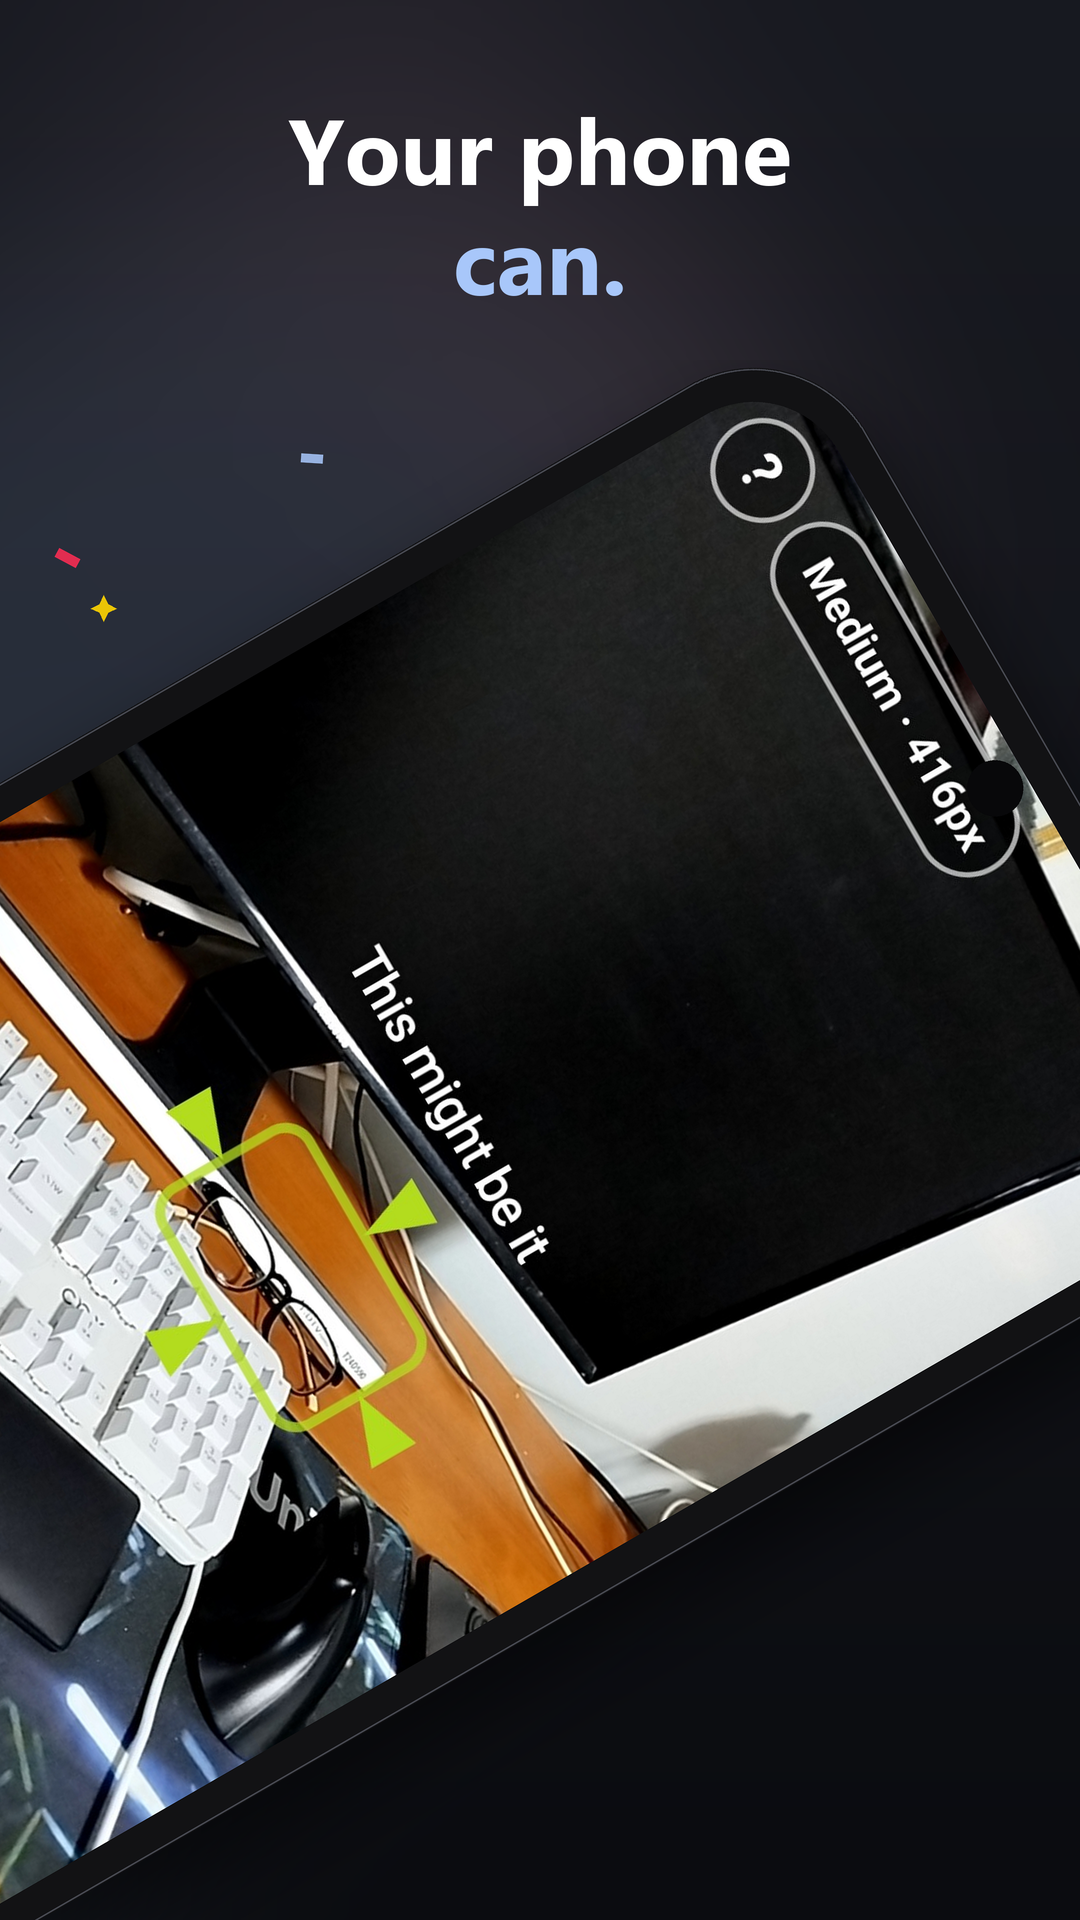
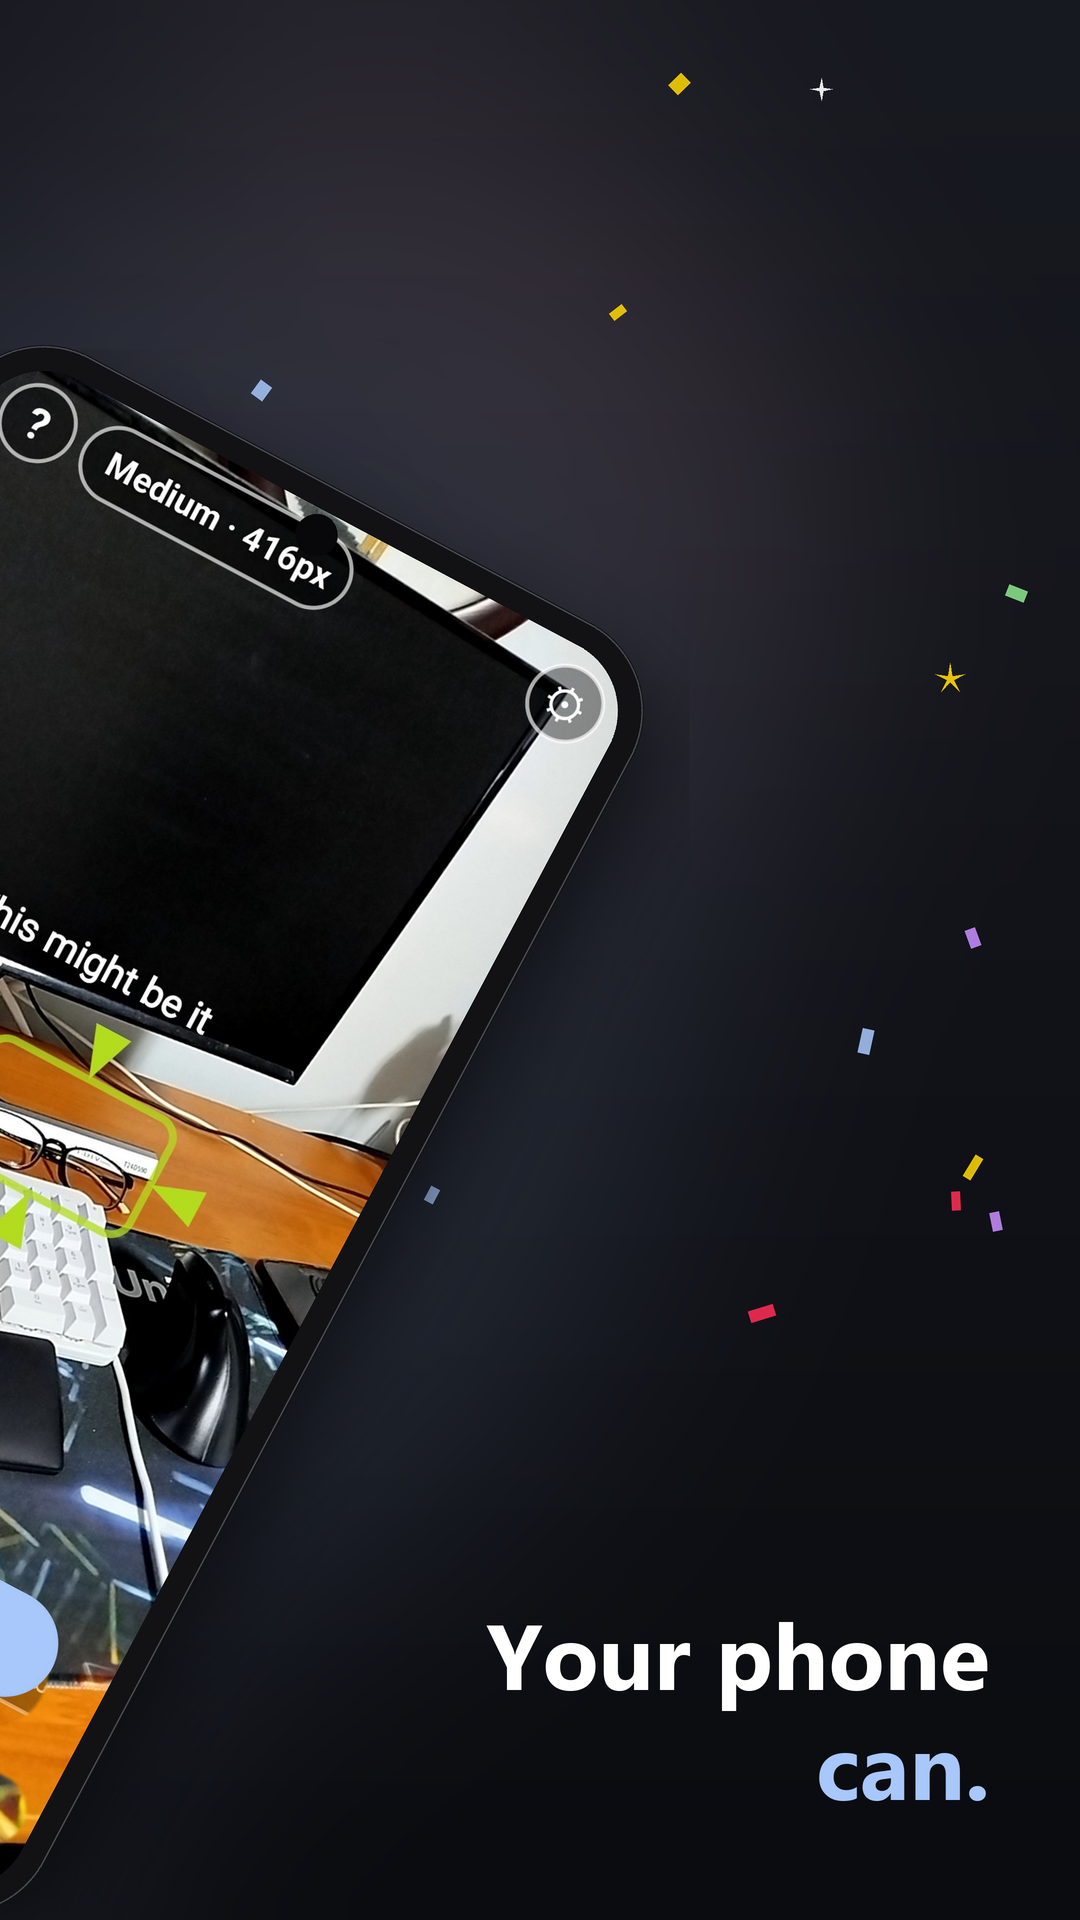
Store panorama: follow the common template layout (phone centered on the seam, ~28 deg, headlines in opposite corners)

diff --git a/poc/scripts/render_store_split.py b/poc/scripts/render_store_split.py
@@ -3,7 +3,7 @@
 폰 한 대가 두 장의 경계선을 걸치고 서서 각 장에 거의 절반씩 보인다. 1장에서 반쪽을
 보고, 넘기면 나머지가 보인다. 2160x1920 한 판에 그린 뒤 반으로 자른다.
 문구는 장마다 위에 따로 둔다 (한 장만 봐도 말이 되게).
-경계선이 안경 박스를 자르지 않게, 폰을 1장 쪽으로 조금 치우친다.
+폰은 경계선 정가운데에 25~35도 기울여 둔다 (스토어 파노라마 템플릿들의 배치).
 
     uv run python scripts/render_store_split.py
 """
@@ -19,10 +19,11 @@ from render_store_marketing import (
 )
 
 SCREEN = "screenshot-2-search.png"
-PHONE_H = 1900          # 폰 긴 변 (px, 1080 폭 기준) — 두 장 폭을 거의 다 쓴다
-ANGLE = -60.0           # 크게 눕힌다 (위가 오른쪽 위)
-CENTER = (1310, 1230)   # 경계선이 폰 길이의 약 64% 지점 — 안경 박스는 2장, 버튼 쪽은 1장
+PHONE_H = 1450          # 화면 높이의 약 3/4 (템플릿들과 같은 비율)
+ANGLE = -28.0           # 25~35도 기울인다 (위가 오른쪽)
+CENTER = (1080, 1130)   # 경계선 정가운데 — 두 장에 반씩
 
+# 문구는 폰이 비워둔 반대쪽 구석에: 1장 왼쪽 위, 2장 오른쪽 아래
 LINES = [("Can’t see", "your glasses?"),         # 1장 (둘째 줄 강조색)
          ("Your phone", "can.")]                  # 2장
 
@@ -55,7 +56,9 @@ def main() -> None:
     placed = 0
     while placed < 44:
         x, y = random.uniform(40, 2120), random.uniform(60, 1880)
-        if y < 400:                          # 문구 자리
+        if x < 1000 and y < 420:             # 1장 문구 자리
+            continue
+        if x > 1160 and y > 1480:            # 2장 문구 자리
             continue
         placed += 1
         x, y = x * SS, y * SS
@@ -76,10 +79,11 @@ def main() -> None:
 
     d = ImageDraw.Draw(canvas)
     f = ImageFont.truetype(FONT_B, 92 * SS)
-    for i, (l1, l2) in enumerate(LINES):
-        cx = (i * W + W // 2) * SS
-        d.text((cx, 185 * SS), l1, font=f, fill=WHITE, anchor="ms")
-        d.text((cx, 295 * SS), l2, font=f, fill=ACCENT, anchor="ms")
+    (a1, a2), (b1, b2) = LINES
+    d.text((90 * SS, 190 * SS), a1, font=f, fill=WHITE, anchor="ls")
+    d.text((90 * SS, 300 * SS), a2, font=f, fill=ACCENT, anchor="ls")
+    d.text(((2 * W - 90) * SS, (H - 230) * SS), b1, font=f, fill=WHITE, anchor="rs")
+    d.text(((2 * W - 90) * SS, (H - 120) * SS), b2, font=f, fill=ACCENT, anchor="rs")
 
     full = canvas.convert("RGB").resize((W * 2, H), Image.LANCZOS)
     full.save(REL / "store-split-spread.png")
